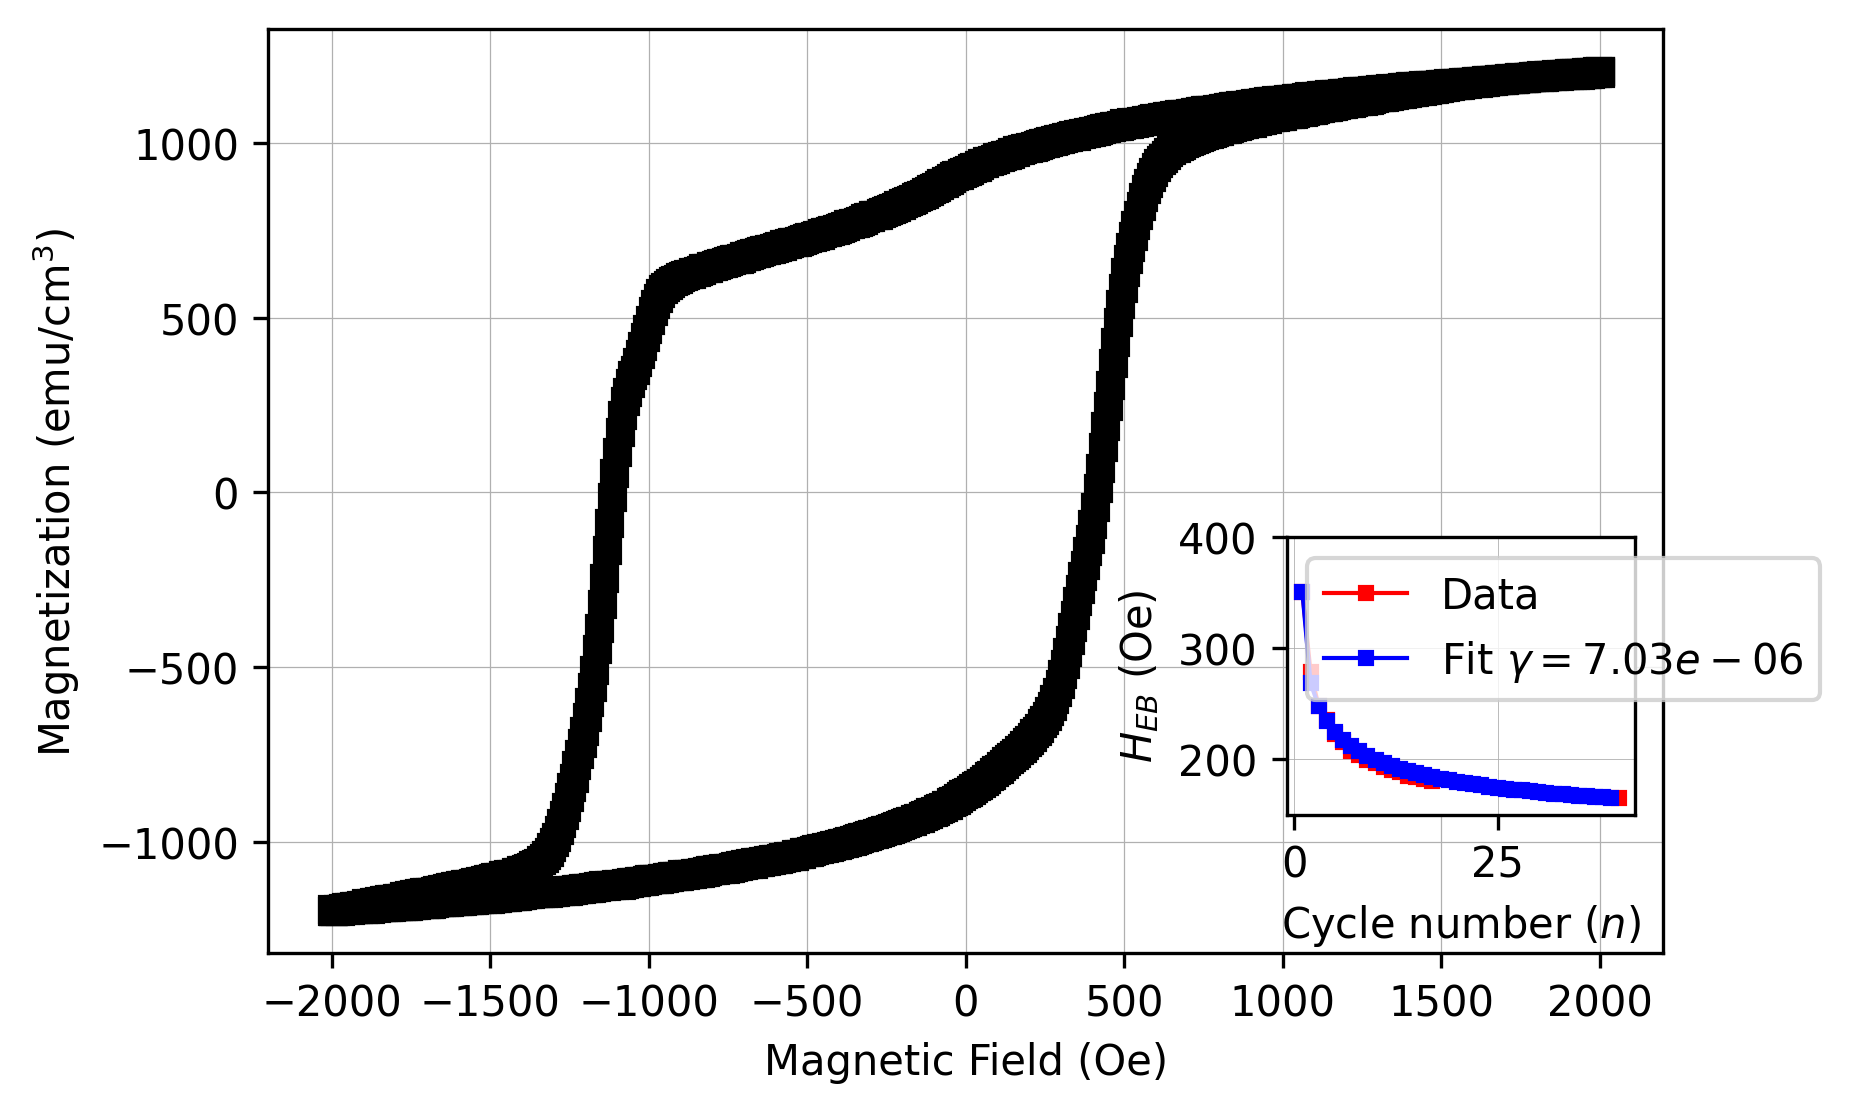
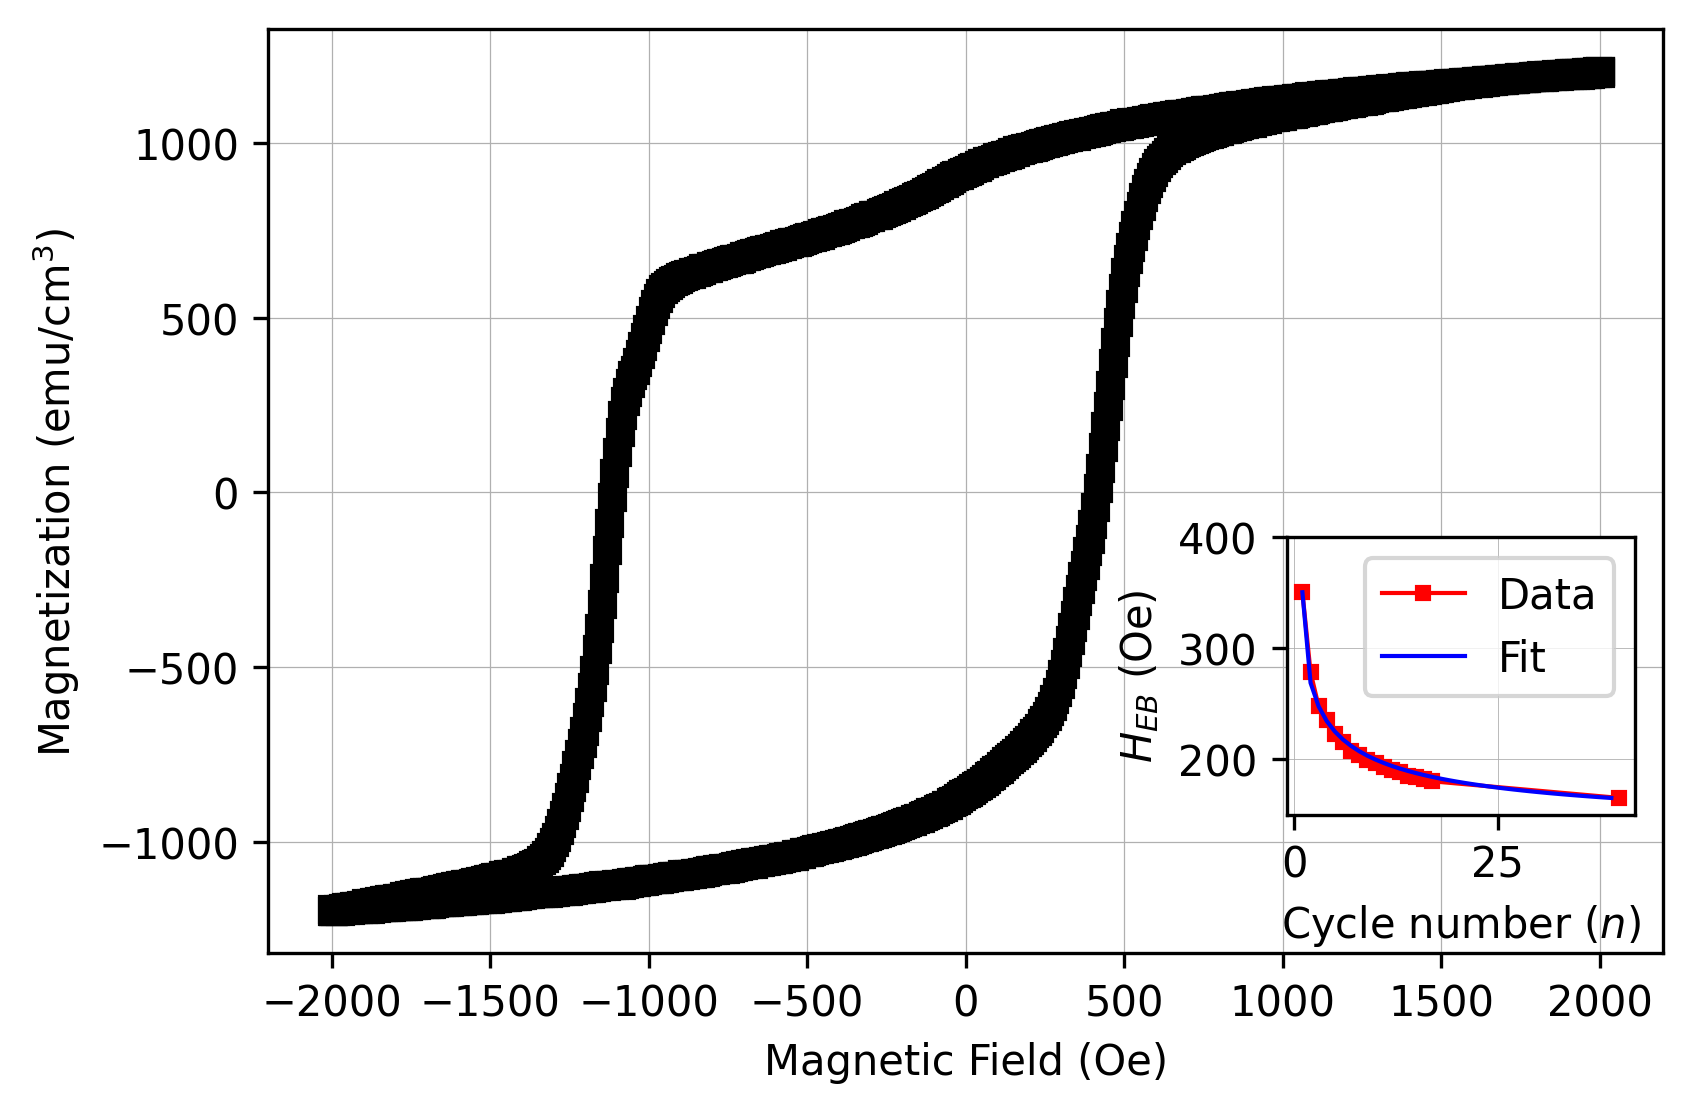
Remove gamma from CFB_hysteresis legend

diff --git a/CFB_hysteresis.py b/CFB_hysteresis.py
@@ -86,7 +86,7 @@ def draw_Binek_model(axis: plt.Axes, Hexc, cycle_list):
         h_next = fit_heb[-1] - gamma * (fit_heb[-1] - h_inf)**3
         fit_heb.append(h_next)
 
-    axis.plot(fit_n, fit_heb, color = "blue", marker='s', markersize=3, linewidth = 1, label=f"Fit $\\gamma={gamma:.2e}$")
+    axis.plot(fit_n, fit_heb, color = "blue", linewidth = 1, label=f"Fit")
     axis.legend()
 
 if __name__ == "__main__":